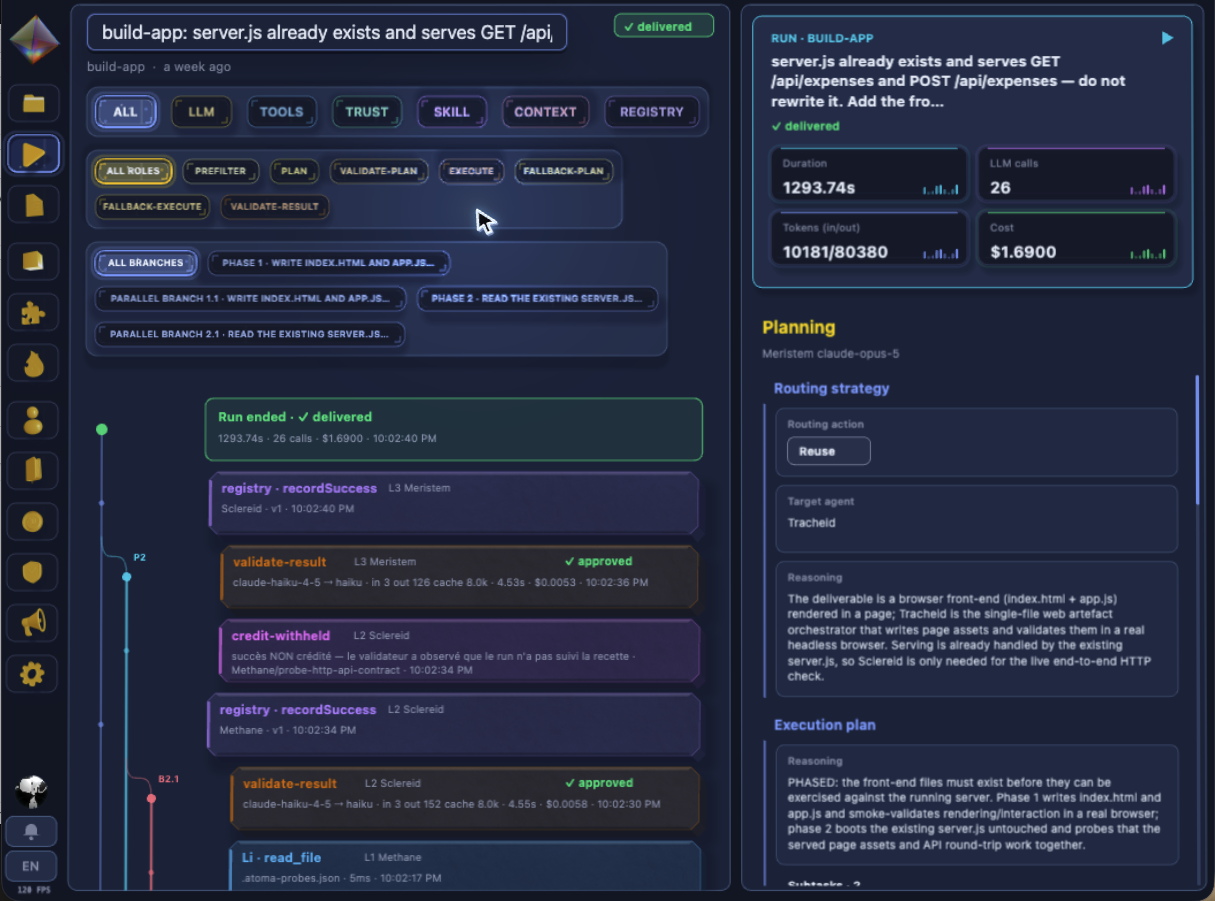
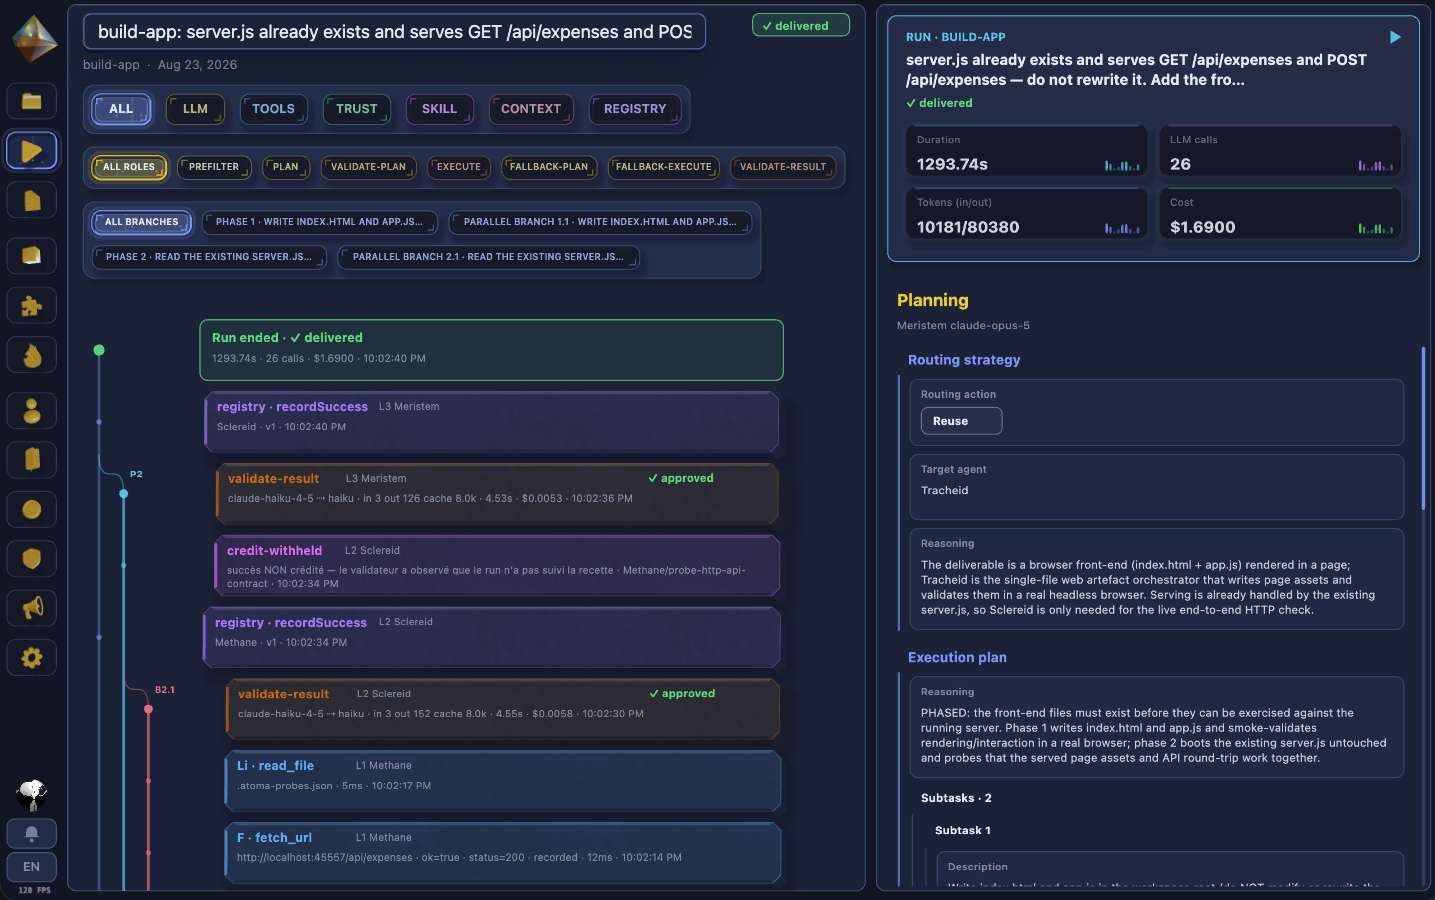
docs: update README app screenshot to a delivered run's timeline end

Changed region(s): [[0.0, 0.0, 1.0, 1.0]]

diff --git a/README.md b/README.md
@@ -17,7 +17,7 @@ reusable agent types and skills between runs.*
 </div>
 
 <p align="center">
-  <img src="docs/atoma-run-audit.png" alt="atoma run visualizer showing cost, cache usage, three-tier routing, validation verdicts, ground-truth evidence and the full execution timeline">
+  <img src="docs/atoma-run-audit.png" alt="atoma run visualizer: a delivered build-app run with its duration, model calls, tokens and cost, the timeline ending in approved validation verdicts, a credit withheld on a skill the run did not follow, registry success records, parallel branches, and the planner’s routing and phased execution reasoning">
 </p>
 
 <p align="center"><em>One run, fully inspectable: every model call, routing decision, tool action, cache hit, trust shortcut, validation verdict and cost estimate remains attributable.</em></p>
